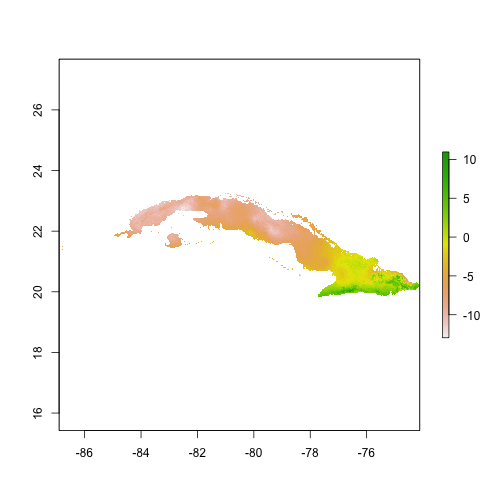
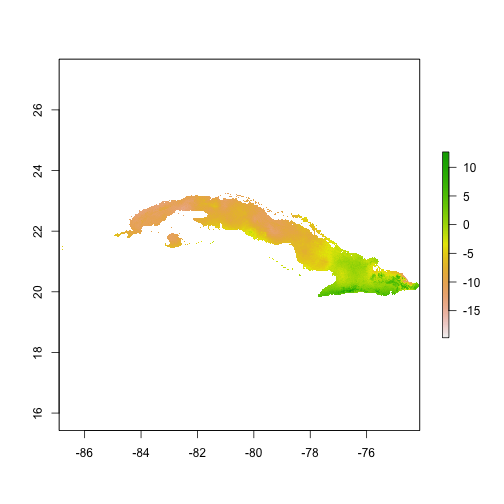
Yep, knitting to .md from now on
.md shows figures and summary info on GitHub, while .Rmd doesn’t for
some reason

diff --git a/readme.md b/readme.md
@@ -124,16 +124,16 @@ ahli
 ## 
 ## | Longitude| Latitude|
 ## |---------:|--------:|
-## | -80.26226| 22.03754|
-## | -80.31226| 22.12920|
-## | -79.86226| 21.85420|
-## | -79.99559| 21.86254|
-## | -80.07892| 21.95420|
-## | -79.63726| 21.71254|
-## | -79.67059| 21.81254|
-## | -79.79559| 21.85420|
-## | -80.27059| 21.90420|
-## | -80.12059| 22.15420|
+## | -80.43726| 22.11254|
+## | -80.29559| 21.97920|
+## | -80.02892| 22.01254|
+## | -80.25392| 22.07087|
+## | -79.82892| 22.03754|
+## | -79.80392| 21.86254|
+## | -80.23726| 22.07920|
+## | -79.89559| 21.81254|
+## | -80.35392| 22.08754|
+## | -79.97059| 22.08754|
 ## 
 ## 
 ## Species name:  ahli
@@ -188,16 +188,16 @@ allogus
 ## 
 ## | Longitude| Latitude|
 ## |---------:|--------:|
-## | -76.98726| 20.70420|
-## | -77.63726| 20.93754|
-## | -78.50392| 22.09587|
-## | -74.93726| 20.57920|
-## | -78.90392| 22.22087|
-## | -76.52059| 20.39587|
-## | -78.12892| 21.81254|
-## | -78.88726| 22.32087|
-## | -74.15392| 20.22087|
-## | -75.12892| 20.48754|
+## | -77.57059| 21.02087|
+## | -75.92059| 20.26254|
+## | -78.02059| 20.93754|
+## | -78.07059| 21.30420|
+## | -74.43726| 20.29587|
+## | -75.65392| 20.00420|
+## | -75.49559| 20.55420|
+## | -75.02892| 20.67920|
+## | -77.48726| 19.98754|
+## | -75.10392| 19.97920|
 ## 
 ## 
 ## Species name:  allogus
@@ -223,14 +223,14 @@ ahli.glm <- enmtools.glm(pres ~ layer.1 + layer.2 + layer.3 + layer.4, ahli, env
 ```
 
 ```r
-print(ahli.glm)
+ahli.glm
 ```
 
 ```
 ## 
 ## 
 ## Formula:  presence ~ layer.1 + layer.2 + layer.3 + layer.4
-## <environment: 0x11cd9e318>
+## <environment: 0x11cd36270>
 ## 
 ## 
 ## Data table (top ten lines): 
@@ -255,23 +255,23 @@ print(ahli.glm)
 ## 
 ## Deviance Residuals: 
 ##      Min        1Q    Median        3Q       Max  
-## -0.53920  -0.20427  -0.14098  -0.09313   3.10858  
+## -0.52900  -0.20935  -0.13540  -0.08696   3.09483  
 ## 
 ## Coefficients:
 ##              Estimate Std. Error z value Pr(>|z|)  
-## (Intercept) 50.002411  24.145553   2.071   0.0384 *
-## layer.1     -0.013693   0.006192  -2.211   0.0270 *
-## layer.2     -0.013122   0.006478  -2.026   0.0428 *
-## layer.3      0.001374   0.006309   0.218   0.8276  
-## layer.4     -0.005035   0.021949  -0.229   0.8185  
+## (Intercept) 50.853276  24.568306   2.070   0.0385 *
+## layer.1     -0.014894   0.006352  -2.345   0.0190 *
+## layer.2     -0.013001   0.006529  -1.991   0.0464 *
+## layer.3      0.004644   0.006568   0.707   0.4795  
+## layer.4     -0.011003   0.021875  -0.503   0.6150  
 ## ---
 ## Signif. codes:  0 '***' 0.001 '**' 0.01 '*' 0.05 '.' 0.1 ' ' 1
 ## 
 ## (Dispersion parameter for binomial family taken to be 1)
 ## 
 ##     Null deviance: 164.58  on 1015  degrees of freedom
-## Residual deviance: 150.29  on 1011  degrees of freedom
-## AIC: 160.29
+## Residual deviance: 148.50  on 1011  degrees of freedom
+## AIC: 158.5
 ## 
 ## Number of Fisher Scoring iterations: 8
 ## 
@@ -285,7 +285,7 @@ print(ahli.glm)
 ## coord. ref. : NA 
 ## data source : in memory
 ## names       : layer 
-## values      : -12.95668, 10.96518  (min, max)
+## values      : -19.70765, 12.67787  (min, max)
 ```
 
 ![plot of chunk unnamed-chunk-8](figure/unnamed-chunk-8-1.png)
@@ -299,9 +299,5 @@ The procedure for building Bioclim, Domain, and Maxent models is similar to the 
 ahli.dm <- enmtools.dm(ahli, env)
 ahli.bc <- enmtools.bc(ahli, env)
 ahli.mx <- enmtools.maxent(ahli, env)
-```
-
-```
-## Error in .jcheck(silent = TRUE): No running JVM detected. Maybe .jinit() would help.
 ```
 
